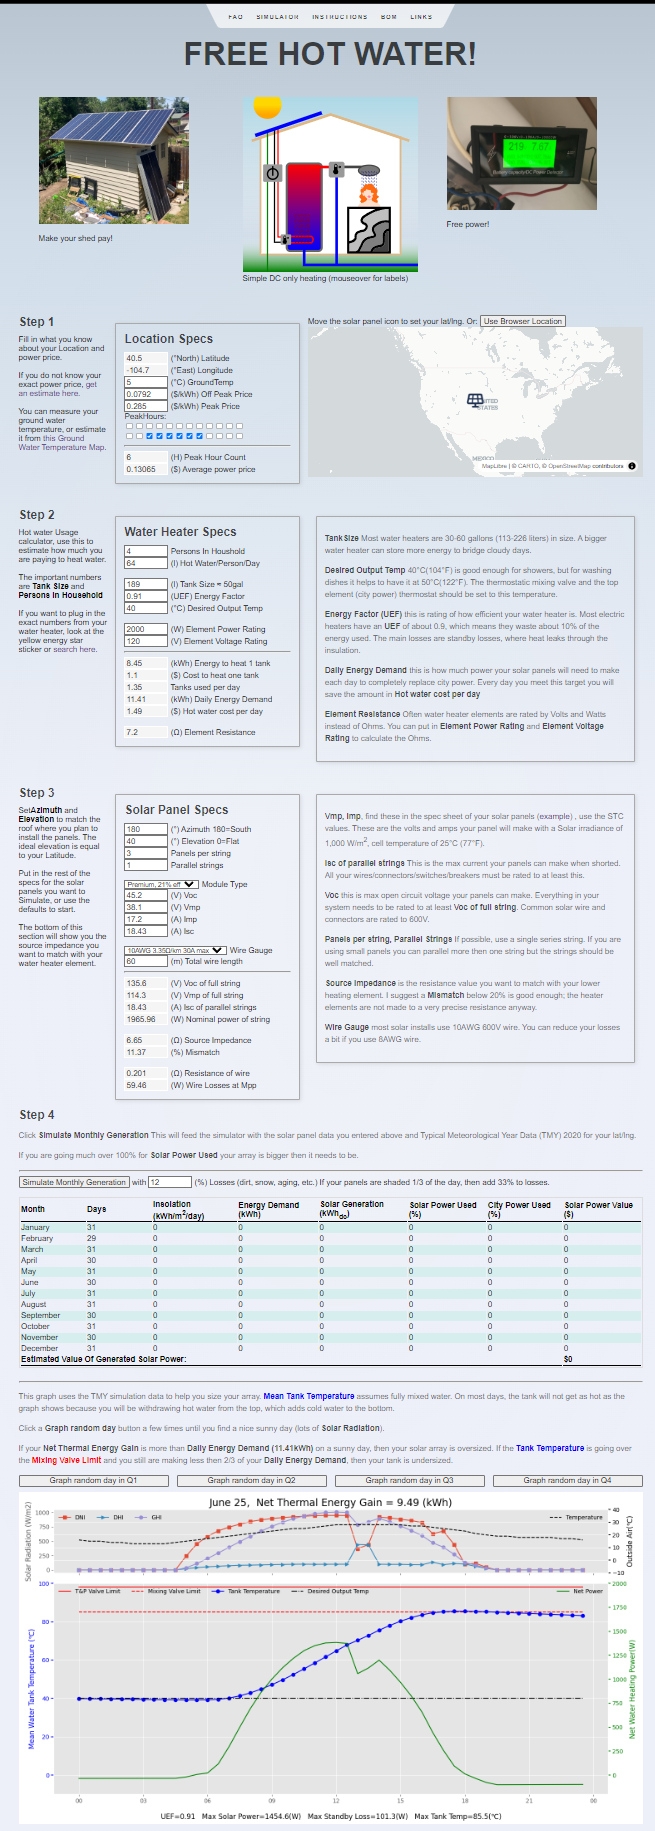
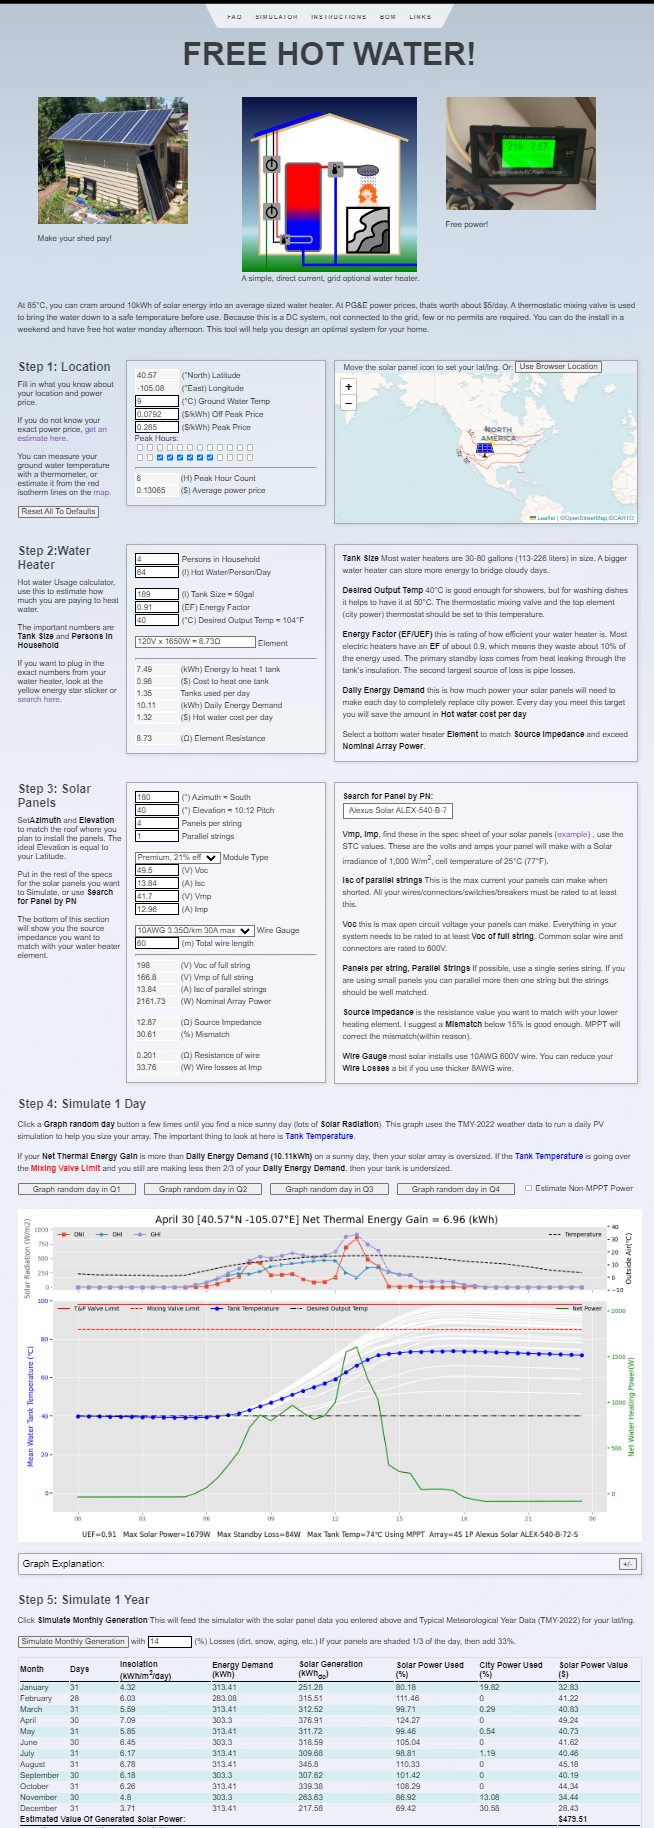
improve graph

Changed region(s): [[0.0306, 0.0, 0.9786, 1.0], [0.0612, 0.0624, 0.3058, 0.1247]]

diff --git a/src/routes/+page.svelte b/src/routes/+page.svelte
@@ -413,8 +413,8 @@
 <div class="smol-sidebar">
 	<span data-text>
 		<h2>Step 3: Solar Panels</h2>
-		Set<b>Azimuth</b> and <b>Elevation</b> to match the roof where you plan to install the panels.
-		The ideal Elevation is equal to your Latitude.
+		Set&nbsp;<b>Azimuth</b> and <b>Elevation</b> to match the roof where you plan to install the
+		panels. The ideal Elevation is equal to your Latitude.
 		<br /> <br />
 		Put in the rest of the specs for the solar panels you want to Simulate, or use
 		<b>Search for Panel by PN</b>
@@ -616,19 +616,9 @@
 		</figure>
 	</span>
 	<Accordion open={false}>
-		<span slot="head">Graph Assumptions:</span>
+		<span slot="head">Graph Explanation:</span>
 		<div slot="details">
 			<ul>
-				{#if $pv.allowNonMpptt}
-					<li>
-						Non-MPPT Power estimates are an experimental feature, do not expect high accuracy. This
-						uses the <a href="https://pvlib-python.readthedocs.io/en/v0.6.0/singlediode.html"
-							>lambertw single diode model</a
-						> to estimate power into a fixed load (your heater element). Notice that MPPT is most useful
-						when there are clouds. To use Non-MPPT you must select a panel by name/PN.
-					</li>
-				{/if}
-
 				<li>
 					No hot water withdraws (aka nobody is home). On most days you will be using hot water
 					which will lower the <span class="blue"><b>Tank Temperature</b></span>
@@ -649,6 +639,19 @@
 					>
 					would not exceed the <span class="red"><b>Mixing Valve Limit</b> </span>
 				</li>
+				<li>
+					The white background lines are <span class="blue"><b>Tank Temperature</b></span> for ±15 days
+					around the plotted date.
+				</li>
+				{#if $pv.allowNonMpptt}
+					<li>
+						Non-MPPT Power estimates are an experimental feature, do not expect high accuracy. This
+						uses the <a href="https://pvlib-python.readthedocs.io/en/v0.6.0/singlediode.html"
+							>lambertw single diode model</a
+						> to estimate power into a fixed load (your heater element). Notice that MPPT is most useful
+						when there are clouds. To use Non-MPPT you must select a panel by name/PN.
+					</li>
+				{/if}
 			</ul>
 		</div>
 	</Accordion>

diff --git a/src/lib/components/Table.svelte b/src/lib/components/Table.svelte
@@ -1,5 +1,7 @@
 <script>
 	// @ts-nocheck
+	// this file is adapted from:
+	// https://github.com/keithj2780/svelte-spreadsheet-frontend
 
 	import { createEventDispatcher, onMount, tick } from 'svelte';
 

diff --git a/python-flask-app/app.py b/python-flask-app/app.py
@@ -113,7 +113,7 @@ def downloadWeatherData(lat=40.57, lon=-105.07, year=2022):
     # print(url)
 
     hash = hashlib.shake_128(url.encode()).hexdigest(8)
-    filename = os.path.join(tmp_folder, "weather_" + hash + ".csv")
+    filename = os.path.join(tmp_folder, f"weather_{lat}_{lon}_{hash}.csv")
     if not os.path.exists(filename):
         urllib.request.urlretrieve(url, filename)
 
@@ -267,9 +267,9 @@ def runSim(
 
     print(f"total_energy = {total_energy}")
 
-    filename_sim = os.path.join(tmp_folder, "daily_" + hash + ".csv")
+    filename_sim = os.path.join(tmp_folder, f"daily_{lat}_{lon}_{hash}.csv")
     df.to_csv(filename_sim)
-    filename_json = os.path.join(tmp_folder, "monthly_" + hash + ".json")
+    filename_json = os.path.join(tmp_folder, f"monthly_{lat}_{lon}_{hash}.json")
 
     jOut = {"outputs": monthly}
     with open(filename_json, "w") as fp:
@@ -345,14 +345,12 @@ def roundUp100(x):
 def simulate_single_day(
     df,
     day,
-    filename,
     tankSize=189,
     startingTemp=40,
     uef=0.9,
     elementR=9.9,
     stringLen=3,
     parallelStrings=1,
-    nominalPower=1000,
     losses=14,
     panelParams=None,
 ):
@@ -404,33 +402,6 @@ def simulate_single_day(
     singleDay["Tank Temperature"] = (
         singleDay["energyFlux"].cumsum() / (heatCapOfWater * tankSize)
     ) + startingTemp
-
-    # pprint.pp(panelParams)
-    # pass in a positive elementR to estimate non-mppt
-    if elementR > 0 and panelParams:
-        # pvlib is a bit more optimistic then pvwatts, so we scale with a fudge factor
-        conversion_factor = 0.95
-
-        singleDay["Sans-MPPT"] = (
-            pvLibTest.getPowerAtLoad(
-                panelParams,
-                # tpoa, poa = (Transmitted) plane of array irradiance [W/m2]
-                singleDay["tpoa"].to_numpy(),
-                singleDay["tcell"].to_numpy(),
-                elementR / stringLen,
-                parallelStrings,
-            )
-            * stringLen
-            * (1.0 - (losses / 100.0))
-        )
-        # calc percents without the standby loss so dark days work
-        singleDay["Sans-MPPT"] = singleDay["Sans-MPPT"] * conversion_factor
-
-        # now add in standby loss for graphing
-        singleDay["Sans-MPPT"] = (
-            singleDay["Sans-MPPT"] * conversion_factor
-        ) - singleDay["standbyLoss"]
-
     return singleDay
 
 
@@ -496,20 +467,7 @@ def nsrdb_plot(
 
         df["90 Degree Zenith"] = 90
 
-        singleDay = simulate_single_day(
-            df,
-            day,
-            filename,
-            tankSize,
-            startingTemp,
-            uef,
-            elementR,
-            stringLen,
-            parallelStrings,
-            nominalPower,
-            losses,
-            panelParams,
-        )
+        singleDay = simulate_single_day( df, day, tankSize, startingTemp, uef, elementR, stringLen, parallelStrings,  losses, panelParams)
 
         jouleSum = singleDay["energyFlux"].sum()
         maxStandbyLoss = singleDay["standbyLoss"].max()
@@ -524,11 +482,6 @@ def nsrdb_plot(
         total_generation_kWh = (
             singleDay["generation"] * 60 * float(interval)
         ).sum() * 0.0000002778
-
-        d = convert_day_of_year(day)
-        ax.set_title(
-            f"{d},  Net Thermal Energy Gain = {total_kWh:.2f} (kWh)", size="xx-large"
-        )
 
         fixedRTitle = f" "
         heaterElementTitle = f"Using MPPT"
@@ -568,8 +521,11 @@ def nsrdb_plot(
             twin2.plot("Sans-MPPT", "g.", data=singleDay)
             fixedRTitle = f"    Sans-MPPT ≈ {kWh_NoMPPT:.1f}(kWh net) ≈ ({nonMpptPercent:.0f}% gross)"
 
+        d = convert_day_of_year(day)
+        lat = filename.split('_')[1]
+        lon = filename.split('_')[2]
         ax.set_title(
-            f"{d},  Net Thermal Energy Gain = {total_kWh:.2f} (kWh) {fixedRTitle}",
+            f"{d} [{lat}°N {lon}°E] Net Thermal Energy Gain = {total_kWh:.2f} (kWh) {fixedRTitle}",
             size="xx-large",
         )
 
@@ -596,9 +552,22 @@ def nsrdb_plot(
         twin1.set_ylabel("Outside Air(℃)")
         twin1.tick_params(axis="y", colors="k", **tkw)
 
+        #ensure we do not run past the beginning or end of the year
+        offset = 0
+        if day < 16:
+            offset = 15
+        if day > 349:
+            offset = -15
+        # this will plot the tank temp over a month  as white background lines
+        for d in range(day+offset-15,day+offset+15):
+            sd = simulate_single_day( df, d, tankSize, startingTemp, uef, elementR, stringLen, parallelStrings,losses )
+            tt = sd["Tank Temperature"].to_numpy(copy=True)
+            ax2.plot(singleDay.index, tt, "-w")
+
         ax2.plot("T&P Valve Limit", "r-", data=singleDay)
         ax2.plot("Mixing Valve Limit", "r--", data=singleDay)
         ax2.plot("Tank Temperature", "b-o", data=singleDay)
+
         ax2.plot("Desired Output Temp", "k-.", data=singleDay)
         ax2.set_ylabel("Mean Water Tank Temperature (℃)")
         ax2.yaxis.label.set_color("b")
